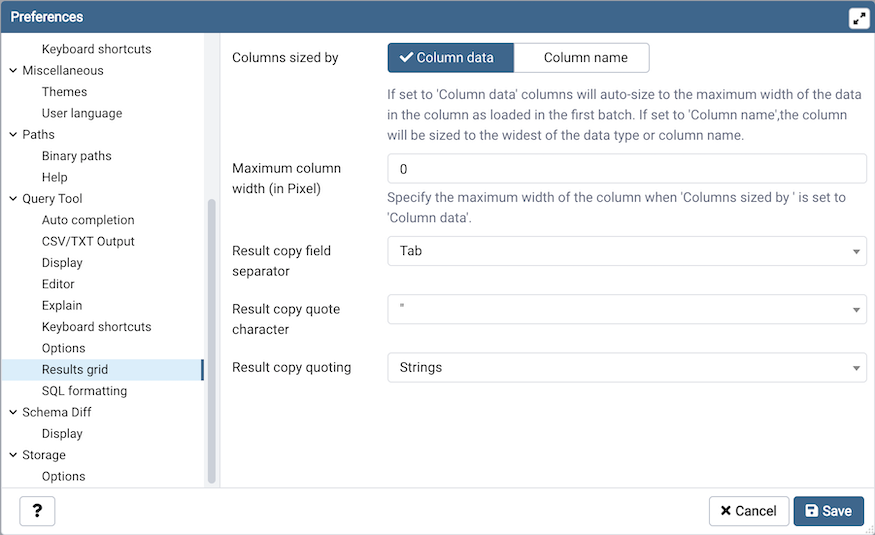
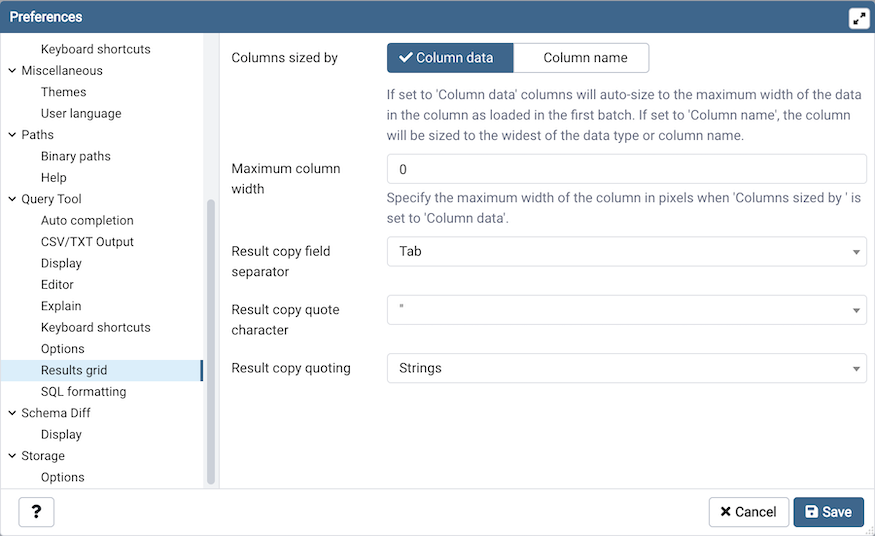
1) Flash warning message of N no of attempts left for the unsuccessful login attempt. 2) Updated some strings in the Preferences for the "Maximum column width" option.

diff --git a/web/pgadmin/authenticate/__init__.py b/web/pgadmin/authenticate/__init__.py
@@ -72,12 +72,22 @@ def login():
     # Validate the user
     if not auth_obj.validate():
         for field in form.errors:
+            flash_login_attempt_error = None
             if user:
                 if config.MAX_LOGIN_ATTEMPTS > 0:
                     user.login_attempts += 1
+                    left_attempts = \
+                        config.MAX_LOGIN_ATTEMPTS - user.login_attempts
+                    flash_login_attempt_error = \
+                        gettext('You are left with {0} more attempts.'.
+                                format(left_attempts))
                 db.session.commit()
             for error in form.errors[field]:
                 flash(error, 'warning')
+
+            if flash_login_attempt_error:
+                flash(flash_login_attempt_error, 'warning')
+
         return redirect(get_post_logout_redirect())
 
     # Authenticate the user

diff --git a/web/pgadmin/tools/sqleditor/utils/query_tool_preferences.py b/web/pgadmin/tools/sqleditor/utils/query_tool_preferences.py
@@ -285,10 +285,10 @@ def register_query_tool_preferences(self):
 
     self.column_data_max_width = self.preference.register(
         'Results_grid', 'column_data_max_width',
-        gettext("Maximum column width (in Pixel)"), 'integer', 0,
+        gettext("Maximum column width"), 'integer', 0,
         category_label=PREF_LABEL_RESULTS_GRID,
         help_str=gettext(
-            'Specify the maximum width of the column when '
+            'Specify the maximum width of the column in pixels when '
             '\'Columns sized by \' is set to \'Column data\'.'
         ),
     )

diff --git a/docs/en_US/preferences.rst b/docs/en_US/preferences.rst
@@ -381,7 +381,7 @@ preferences for copied data.
   auto-size to the maximum width of the data in the column as loaded in the
   first batch. If set to *Column name*, the column will be sized to the widest
   of the data type or column name.
-* Specify the maximum width of the column in pixel when 'Columns sized by' is
+* Specify the maximum width of the column in pixels when 'Columns sized by' is
   set to *Column data*. If 'Columns sized by' is set to *Column name* then this
   setting won't have any effect.
 * Use the *Result copy field separator* drop-down listbox to select the field
